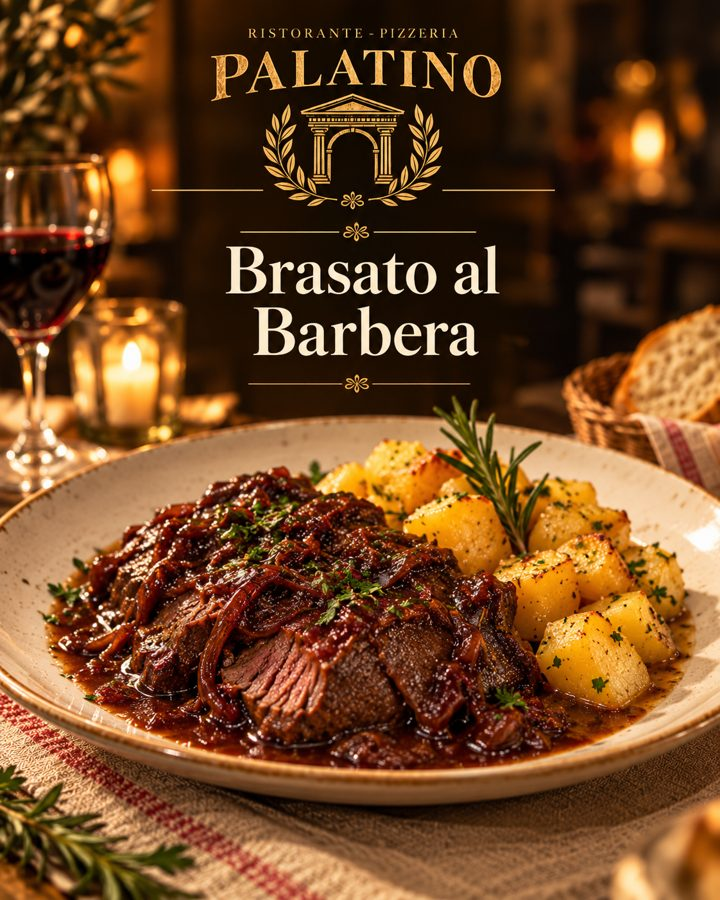
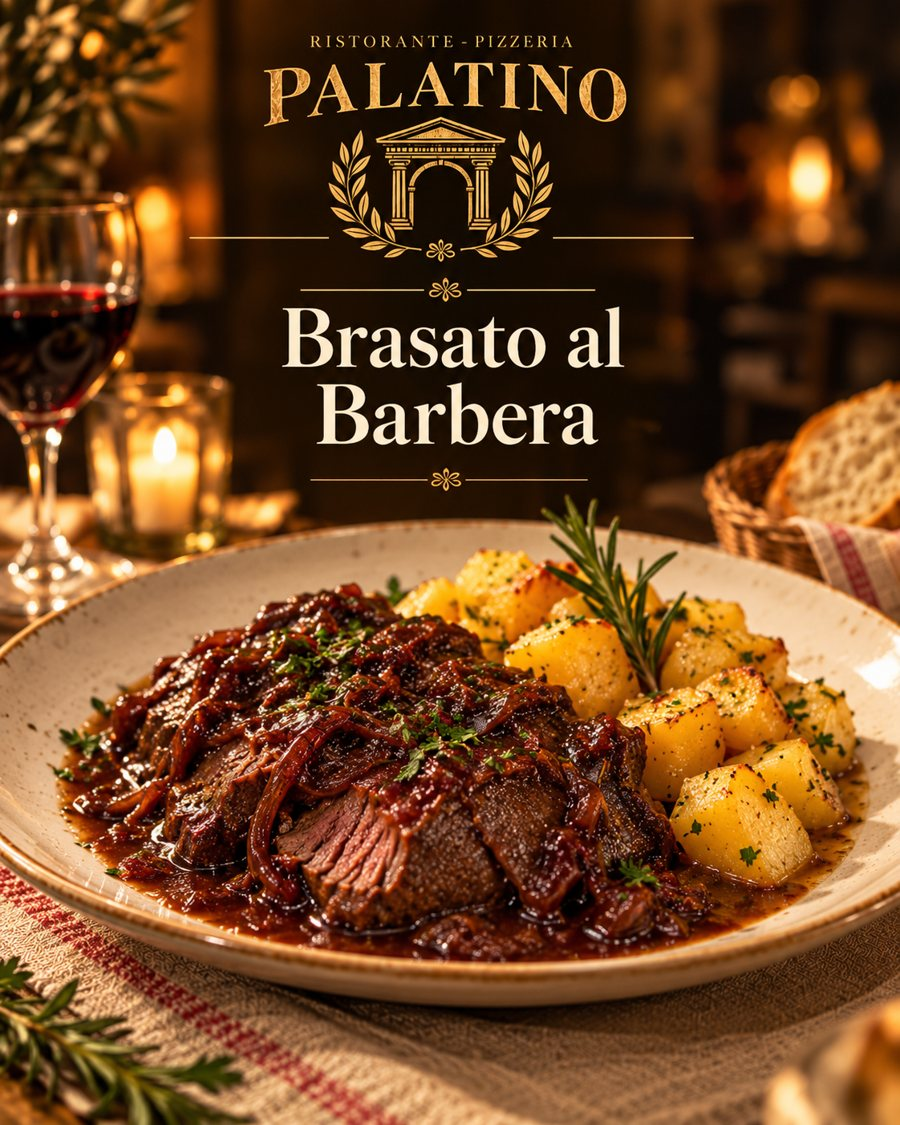
Show the restaurant posters uncropped as the dish images
- Menu rows and dish pages show the full poster as provided; small
  thumbnails (cart, admin, special card) use the same poster file
- Posters re-exported at 900 px wide; the cropped dish photos are removed
- Guest home hero goes back to the illustrated arches

Claude-Session: https://claude.ai/code/session_01LiB632yrASiYwKgrHQ2rsH

diff --git a/index.html b/index.html
@@ -303,7 +303,10 @@ table.tbl{width:100%;border-collapse:collapse;background:var(--raised);border:1p
 .tab2 aside{position:sticky;top:96px;max-height:calc(100dvh - 180px);overflow:auto;background:var(--canvas);border:1px solid var(--stone);border-radius:var(--r-lg);padding:14px}
 .tab2 .backbtn{display:none}
 .logo img{width:100%;height:100%;object-fit:cover;border-radius:inherit;background:#fff}
-.thumb img{position:absolute;inset:0;width:100%;height:100%;object-fit:cover}
+.thumb img{position:absolute;inset:0;width:100%;height:100%;object-fit:cover;object-position:center 80%}
+.dish.hp{flex-wrap:wrap}
+.pimg{display:block;width:100%;border-radius:var(--r-lg);border:1px solid var(--stone)}
+.pimg img{display:block;width:100%;height:auto;border-radius:inherit}
 .posters{display:flex;gap:12px;overflow-x:auto;scroll-snap-type:x mandatory;scrollbar-width:none;margin:0 -16px;padding:0 16px 4px}
 .posters::-webkit-scrollbar{display:none}
 .poster{flex:none;width:62%;max-width:240px;aspect-ratio:4/5.6;border-radius:var(--r-lg);overflow:hidden;scroll-snap-align:start;background:#2C1806;border:1px solid var(--stone)}
@@ -419,7 +422,7 @@ const optDelta = (d, k) => { if (!d.opt) return 0; const o = OPTS[d.opt].find(x 
 const SEED_MENU = [
   { id: "a1", cat: "anti", st: "cucina", name: "Vitello tonnato", price: 13, alg: ["uova", "pesce", "sen"], tags: ["tradizione"],
     d: ["Girello di vitello rosa, salsa tonnata e capperi.", "Pink veal round, tuna sauce and capers.", "Pembe dana, ton balıklı sos ve kapari."] },
-  { id: "a2", cat: "anti", st: "cucina", name: "Tagliere di salumi e formaggi", price: 16, alg: ["lat", "glu"], tags: ["condividere"], img: "assets/dishes/tagliere.jpg", poster: "assets/posters/tagliere.jpg",
+  { id: "a2", cat: "anti", st: "cucina", name: "Tagliere di salumi e formaggi", price: 16, alg: ["lat", "glu"], tags: ["condividere"], img: "assets/posters/tagliere.jpg", poster: "assets/posters/tagliere.jpg",
     d: ["Salumi e formaggi del territorio con pane della casa.", "Local cured meats and cheeses with house bread.", "Yöresel şarküteri ve peynir tabağı, ev yapımı ekmekle."] },
   { id: "a3", cat: "anti", st: "cucina", name: "Tris di tomini", price: 11, alg: ["lat"], tags: ["veg", "gf"],
     d: ["Tomini al verde, al rosso ed elettrici.", "Tomino cheeses: green sauce, red sauce and spicy.", "Üç çeşit tomino peyniri: yeşil sos, kırmızı sos, acılı."] },
@@ -429,7 +432,7 @@ const SEED_MENU = [
     d: ["Pasta ripiena fatta a mano, sugo d'arrosto ristretto.", "Hand-made filled pasta with roast jus.", "El yapımı dolgulu makarna, rosto suyu ile."] },
   { id: "p2", cat: "primi", st: "cucina", name: "Agnolotti al Castelmagno", price: 15, alg: ["glu", "uova", "lat"], tags: ["casa"], opt: "porz",
     d: ["Agnolotti con fonduta di Castelmagno DOP.", "Agnolotti with Castelmagno PDO cheese fondue.", "Castelmagno peyniri fondüsü ile agnolotti."] },
-  { id: "p3", cat: "primi", st: "cucina", name: "Spaghetti cozze e vongole", price: 16, alg: ["glu", "mol"], tags: [], opt: "porz", img: "assets/dishes/spaghetti-cozze-vongole.jpg", poster: "assets/posters/spaghetti-cozze-vongole.jpg",
+  { id: "p3", cat: "primi", st: "cucina", name: "Spaghetti cozze e vongole", price: 16, alg: ["glu", "mol"], tags: [], opt: "porz", img: "assets/posters/spaghetti-cozze-vongole.jpg", poster: "assets/posters/spaghetti-cozze-vongole.jpg",
     d: ["Cozze, vongole veraci, aglio e prezzemolo.", "Mussels, clams, garlic and parsley.", "Midye, akivades, sarımsak ve maydanoz."] },
   { id: "p4", cat: "primi", st: "cucina", name: "Paccheri gorgonzola e salsiccia", price: 14, alg: ["glu", "lat"], tags: [], opt: "porz",
     d: ["Crema di gorgonzola e salsiccia di Bra.", "Gorgonzola cream and Bra sausage.", "Gorgonzola kreması ve Bra sosisi."] },
@@ -439,11 +442,11 @@ const SEED_MENU = [
     d: ["Tagli misti di manzo bollito con bagnetto verde.", "Mixed boiled beef cuts with green sauce.", "Karışık haşlanmış dana, yeşil sos (bagnetto) ile."] },
   { id: "s2", cat: "secondi", st: "cucina", name: "Fritto di mare con gamberi", price: 20, alg: ["glu", "cro", "mol", "pesce"], tags: [],
     d: ["Calamari, gamberi e pesce fritti, limone.", "Fried squid, prawns and fish with lemon.", "Kızarmış kalamar, karides ve balık, limonla."] },
-  { id: "s3", cat: "secondi", st: "cucina", name: "Brasato al Barbera", price: 19, alg: ["sed", "sol"], algTbd: true, tags: ["tradizione"], img: "assets/dishes/brasato-barbera.jpg", poster: "assets/posters/brasato-barbera.jpg",
+  { id: "s3", cat: "secondi", st: "cucina", name: "Brasato al Barbera", price: 19, alg: ["sed", "sol"], algTbd: true, tags: ["tradizione"], img: "assets/posters/brasato-barbera.jpg", poster: "assets/posters/brasato-barbera.jpg",
     d: ["Manzo brasato a lungo nel Barbera, patate al forno al rosmarino.", "Beef slow-braised in Barbera wine, rosemary roast potatoes.", "Barbera şarabında uzun süre pişmiş dana, biberiyeli fırın patates."] },
-  { id: "s4", cat: "secondi", st: "cucina", name: "Tagliata di vitello alle erbe", price: 21, alg: [], algTbd: true, tags: [], img: "assets/dishes/tagliata-vitello.jpg", poster: "assets/posters/tagliata-vitello.jpg",
+  { id: "s4", cat: "secondi", st: "cucina", name: "Tagliata di vitello alle erbe", price: 21, alg: [], algTbd: true, tags: [], img: "assets/posters/tagliata-vitello.jpg", poster: "assets/posters/tagliata-vitello.jpg",
     d: ["Profumata al limone, con jus al ginepro e carote saltate.", "Lemon-scented, with juniper jus and sautéed carrots.", "Limon aromalı, ardıç sosu ve sote havuçla."] },
-  { id: "s5", cat: "secondi", st: "cucina", name: "Filetto in riduzione al Vermouth", price: 26, alg: ["lat", "sol"], algTbd: true, tags: [], img: "assets/dishes/filetto-vermouth.jpg", poster: "assets/posters/filetto-vermouth.jpg",
+  { id: "s5", cat: "secondi", st: "cucina", name: "Filetto in riduzione al Vermouth", price: 26, alg: ["lat", "sol"], algTbd: true, tags: [], img: "assets/posters/filetto-vermouth.jpg", poster: "assets/posters/filetto-vermouth.jpg",
     d: ["Vitello con crema di topinambur, polvere di porcini e cicoria.", "Veal with Jerusalem artichoke cream, porcini dust and chicory.", "Yer elması kreması, porçini tozu ve hindiba ile dana fileto."] },
   { id: "z1", cat: "pizze", st: "pizzeria", name: "Margherita", price: 8, alg: ["glu", "lat"], tags: ["veg"], opt: "imp",
     d: ["Pomodoro, fior di latte, basilico.", "Tomato, fior di latte, basil.", "Domates, fior di latte, fesleğen."] },
@@ -711,7 +714,7 @@ function gJoin() {
 function gHome() {
   const s = S.session; const sp = dish("s3") || dish("p1"); const today = new Date().getDay();
   const posters = S.menu.filter(d => d.poster && d.avail);
-  const heroImg = dish("a2") && dish("a2").img;
+  const heroImg = null;
   return guestShell("home", L("Benvenuti", "Welcome", "Hoş geldiniz"), `
     <div class="hero" ${heroImg ? `style="background:linear-gradient(180deg,rgba(20,14,8,.15) 0%,rgba(20,14,8,.88) 78%),url('${heroImg}') center 40%/cover,var(--bosco)"` : ""}>${heroImg ? "" : porticoSVG}
       <div class="label" style="color:#F1B08F">${esc(S.brand.tagline) || L("Cucina piemontese · Pizzeria", "Piedmontese kitchen · Pizzeria", "Piemonte mutfağı · Pizzeria")}</div>
@@ -761,13 +764,13 @@ function gMenu() {
     </div>
     ${ui.diet.gf ? `<div class="card terra mt12 body-md" style="color:var(--terra-ink)">${ic("info")} ${L("Le pizze sono disponibili con impasto senza glutine. Segnala sempre la celiachia nelle note.", "Pizzas are available with gluten-free dough. Always flag coeliac needs in the notes.", "Pizzalar glutensiz hamurla yapılabilir. Çölyak durumunu her zaman nota yazın.")}</div>` : ""}
     ${cats.length ? cats.map(([c, ds]) => `<section id="cat-${c[0]}"><div class="sec-title"><div class="h1">${c[1]()}</div><span class="label">${ds.length}</span></div>
-      <div class="list">${ds.map(d => { const q = qtyOf(d.id); return `<div class="dish">
+      <div class="list">${ds.map(d => { const q = qtyOf(d.id); return `<div class="dish ${d.poster ? "hp" : ""}">${d.poster ? `<button class="pimg" data-go="#/guest/dish/${d.id}" aria-label="${esc(d.name)}"><img src="${d.poster}" alt="${esc(d.name)}" loading="lazy" onerror="this.closest('.pimg').remove()"></button>` : ""}
         <button class="grow" style="text-align:left" data-go="#/guest/dish/${d.id}">
           <div class="row wrap" style="gap:4px;margin-bottom:4px">${d.avail ? d.tags.slice(0, 2).map(t => `<span class="tag ${t === "tradizione" || t === "casa" ? "terra" : "stone"}">${tagName(t)}</span>`).join("") : `<span class="tag err">${L("Esaurito", "Sold out", "Tükendi")}</span>`}</div>
           <div class="nm">${esc(d.name)}</div><div class="ds">${esc(d.d[ui.lang === "it" ? 0 : ui.lang === "en" ? 1 : 2])}</div>
           <div class="price mt8">${eur(d.price)}${d.opt === "imp" ? ` <span class="muted" style="font-weight:500;font-size:.78rem">${L("da", "from", "başlayan")}</span>` : ""}</div>
         </button>
-        <div class="col" style="align-items:flex-end;justify-content:space-between">${thumb(d)}
+        <div class="col" style="align-items:flex-end;justify-content:${d.poster ? "flex-end" : "space-between"}">${d.poster ? "" : thumb(d)}
           ${!d.avail ? `<button class="btn secondary sm" data-go="#/guest/dish/${d.id}">${L("Alternative", "Alternatives", "Alternatifler")}</button>` :
             q ? `<div class="stepper"><button data-a="qmenu" data-v="${d.id}|-1" aria-label="-">${ic("remove")}</button><span class="tnum">${q}</span><button data-a="qmenu" data-v="${d.id}|1" aria-label="+">${ic("add")}</button></div>` :
             `<button class="btn primary sm" data-a="quick" data-v="${d.id}">${ic("add")}${L("Aggiungi", "Add", "Ekle")}</button>`}
@@ -795,9 +798,9 @@ function gDish(id) {
   }
   const tot = (d.price + optDelta(d, ui.dopt)) * ui.dq;
   const body = `${back}
-    <div class="mt8">${thumb(d, "lg")}</div>
+    <div class="mt8">${d.poster ? `<div class="pimg"><img src="${d.poster}" alt="${esc(d.name)}" onerror="this.closest('.pimg').remove()"></div>` : thumb(d, "lg")}</div>
     <div class="row wrap mt16" style="gap:6px">${d.tags.map(t => `<span class="tag ${t === "tradizione" || t === "casa" ? "terra" : "stone"}">${tagName(t)}</span>`).join("")}</div>
-    <div class="h-display mt8" style="font-size:1.8rem">${esc(d.name)}</div>${d.poster ? `<button class="link mt8" style="display:inline-flex;gap:4px;align-items:center" data-a="poster" data-v="${d.id}">${ic("image")}${L("Vedi la locandina", "View the poster", "Afişi gör")}</button>` : ""}
+    <div class="h-display mt8" style="font-size:1.8rem">${esc(d.name)}</div>
     <div class="row mt8"><span class="price" style="font-size:1.15rem;color:var(--terra-ink)">${eur(d.price)}</span><span class="body-md">${L("IVA inclusa · coperto a parte", "VAT incl. · cover extra", "KDV dahil · kuver ayrıca")}</span></div>
     <p class="serif mt12" style="font-size:1.1rem;font-style:italic;color:var(--ink-2)">“${esc(d.d[li])}”</p>
     <div class="label mt24">${L("Allergeni (Reg. UE 1169/11)", "Allergens (EU 1169/11)", "Alerjenler (AB 1169/11)")}</div>

diff --git a/README.md b/README.md
@@ -42,7 +42,7 @@ Girişler yalnızca demo amaçlıdır; doğrulama tarayıcıda yapılır.
 ## Klasörler
 
 - `index.html`: prototipin tamamı (tek dosya).
-- `assets/`: restoranın afişleri (`posters/`), afişlerden kırpılmış yemek fotoğrafları (`dishes/`) ve logo (`brand/`). `index.html` bu klasörle birlikte açılmalıdır; görsel bulunamazsa çizim kullanılır.
+- `assets/`: restoranın afişleri (`posters/`, menüde ve yemek sayfalarında olduğu gibi kullanılır) ve logo (`brand/`). `index.html` bu klasörle birlikte açılmalıdır; görsel bulunamazsa çizim kullanılır.
 - `docs/DESIGN-ivory.md`: fildişi tasarım sistemi (renk token'ları, kontrast notları, bileşen kuralları, Stitch istemi).
 - `docs/design-review.md`: Stitch projesinin tasarım incelemesi.
 - `design/stitch-export/`: Google Stitch'ten dışa aktarılan orijinal 12 ekran ve tasarım sistemi.
